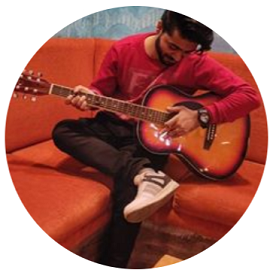
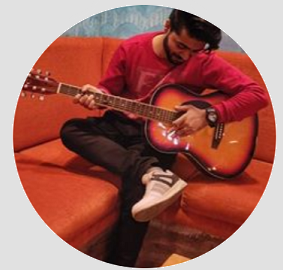
Brown theme first commit

diff --git a/css/styles.css b/css/styles.css
@@ -6,14 +6,14 @@ body {
 }
 
 h1 {
-  color: #66BFBF;
+  color: #ffffff;
   font-size: 5.625rem;
   margin: 50px auto 0 auto;
   font-family: 'Sacramento', cursive;
 }
 
 h2 {
-  color: #66BFBF;
+  color: #11999E;
   font-family: 'Montserrat', sans-serif;
   font-size: 2.5rem;
   font-weight: normal;
@@ -21,7 +21,7 @@ h2 {
 }
 
 h3 {
-  color: #11999E;
+  color: #302626;
   font-family: 'Montserrat', sans-serif;
 }
 
@@ -37,7 +37,7 @@ hr {
 }
 
 a{
-  color: #11999E;
+  color: #302626;
   font-family: 'Montserrat', sans-serif;
   margin: 10px 20px;
   text-decoration: none;
@@ -48,22 +48,32 @@ a:hover {
 }
 
 .top-container {
-  background-color: #E4F9F5;
-  position: relative;
   padding-top: 100px;
+  background: url(../images/laptop.jpg);
+  background-size: cover;
+  height: 100vh;
 }
 
 .middle-container {
-  margin: 100px 0;
+  padding: 100px 0;
+  background-color: #e1e1e1;
 }
 
 .bottom-container {
-  background-color: #66BFBF;
+  background-color: #302626;
   padding: 50px 0 20px;
 }
 
+.title-text {
+  color: #ffffff;
+}
+
+.title-text h2 {
+  color: #ffffff;
+}
+
 .skill-row {
-  width: 50%;
+  width: 45%;
   margin: 100px auto 100px auto;
   text-align: left;
 }
@@ -101,25 +111,28 @@ a:hover {
 }
 
 .code-img {
-  width: 25%;
+  width: 16%;
   float: left;
-  margin-right: 30px;
-  border-radius: 100%;
+  margin-right: 45px;
+  border-radius: 50%;
+  background-color: rgb(80, 164, 167);
 }
 
 .fifa-img {
-  width: 20%;
+  width: 16%;
   float: right;
   margin-left: 30px;
+  border-radius: 50%;
+  background-color: rgb(80, 164, 167);
 }
 
 .btn {
-  background: #11cdd4;
-  background-image: -webkit-linear-gradient(top, #11cdd4, #11999e);
-  background-image: -moz-linear-gradient(top, #11cdd4, #11999e);
-  background-image: -ms-linear-gradient(top, #11cdd4, #11999e);
-  background-image: -o-linear-gradient(top, #11cdd4, #11999e);
-  background-image: linear-gradient(to bottom, #11cdd4, #11999e);
+  background: #302626;
+  background-image: -webkit-linear-gradient(top, #302626, #635655);
+  background-image: -moz-linear-gradient(top, #302626, #635655);
+  background-image: -ms-linear-gradient(top, #302626, #635655);
+  background-image: -o-linear-gradient(top, #302626, #635655);
+  background-image: linear-gradient(to bottom, #302626, #635655);
   -webkit-border-radius: 8;
   -moz-border-radius: 8;
   border-radius: 8px;
@@ -131,12 +144,12 @@ a:hover {
 }
 
 .btn:hover {
-  background: #30e3cb;
-  background-image: -webkit-linear-gradient(top, #30e3cb, #2bc4ad);
-  background-image: -moz-linear-gradient(top, #30e3cb, #2bc4ad);
-  background-image: -ms-linear-gradient(top, #30e3cb, #2bc4ad);
-  background-image: -o-linear-gradient(top, #30e3cb, #2bc4ad);
-  background-image: linear-gradient(to bottom, #30e3cb, #2bc4ad);
+  background:#504a4a;
+  background-image: -webkit-linear-gradient(top, #504a4a, #5e5b5b);
+  background-image: -moz-linear-gradient(top, #504a4a, #5e5b5b);
+  background-image: -ms-linear-gradient(top, #504a4a, #5e5b5b);
+  background-image: -o-linear-gradient(top, #504a4a, #5e5b5b);
+  background-image: linear-gradient(to bottom, #504a4a, #5e5b5b);
   text-decoration: none;
 }
 

diff --git a/index.html b/index.html
@@ -5,32 +5,30 @@
   <meta charset="utf-8">
   <title>Sanam Majithia</title>
   <link rel="stylesheet" href="css/styles.css">
-  <link href="https://fonts.googleapis.com/css?family=Merriweather|Montserrat|Sacramento" rel="stylesheet">
+  <link href="https://fonts.googleapis.com/css?family=Merriweather|Montserrat|Sacramento|Averia+Serif+Libre|Noto+Serif+TC" rel="stylesheet">
   <link rel="icon" href="pikachu.png">
 </head>
 
 <body>
   <div class="top-container">
-    <img class="top-cloud" src="images/cloud.png" alt="cloud">
     <div class="title-text">
-      <h1>I'm Sanam.</h1>
-      <h2>a web developer.</h2>
+      <h1>I'm Sanam</h1>
+      <h2>a web developer</h2>
     </div>
-    <img class="bottom-cloud" src="images/cloud.png" alt="cloud">
-    <img class="mountain" src="images/mountain.png" alt="mountain-img">
   </div>
 
   <div class="middle-container">
     <div class="profile">
       <img src="images/profile-pic.png" alt="sanam-profile-img">
-      <h2>Hello.</h2>
-      <p class="intro">I am a Web Developer and a Software Engineer who currently works with Amadeus Software Labs. I ❤ coffee, football and action figures.</p>
+      <h2>Hello</h2>
+      <p class="intro">I am a Web Developer and a Software Engineer who currently turns coffee into code @ Amadeus Software Labs.</p>
+      <p>I ❤ football and action figures.</p>
     </div>
     <hr>
     <div class="skills">
-      <h2>My Skills.</h2>
+      <h2>My Skills</h2>
       <div class="skill-row">
-        <img class="code-img" src="https://media.giphy.com/media/26tn33aiTi1jkl6H6/source.gif" alt="code-img">
+        <img class="code-img" src="images/programmer.gif" alt="code-img">
 
         <h3>Design & Development</h3>
         <p>I started learning to code seriously after graduating out of college and quickly got addicted to it. Over time, I have gained a wealth of experience designing and developing web applications.</p>
@@ -38,9 +36,13 @@
       </div>
       <div class="skill-row">
         <img class="fifa-img" src="images/controller.png" alt="fifa-img">
+        <img class="fifa-img" src="images/piano.png" alt="piano-img">
 
-        <h3>Fifa Challenge</h3>
-        <p>But my best skill actually lies in winning Fifa games. Challenge me and rest assured that you will be humbled.</p>
+        <h3>Others</h3>
+        <p>
+          But my best skill actually lies in winning Fifa games. Challenge me and rest assured that you will be humbled.<br>
+          Apart from this, I also play the musical keyboard at times.
+        </p>
 
       </div>
     </div>
